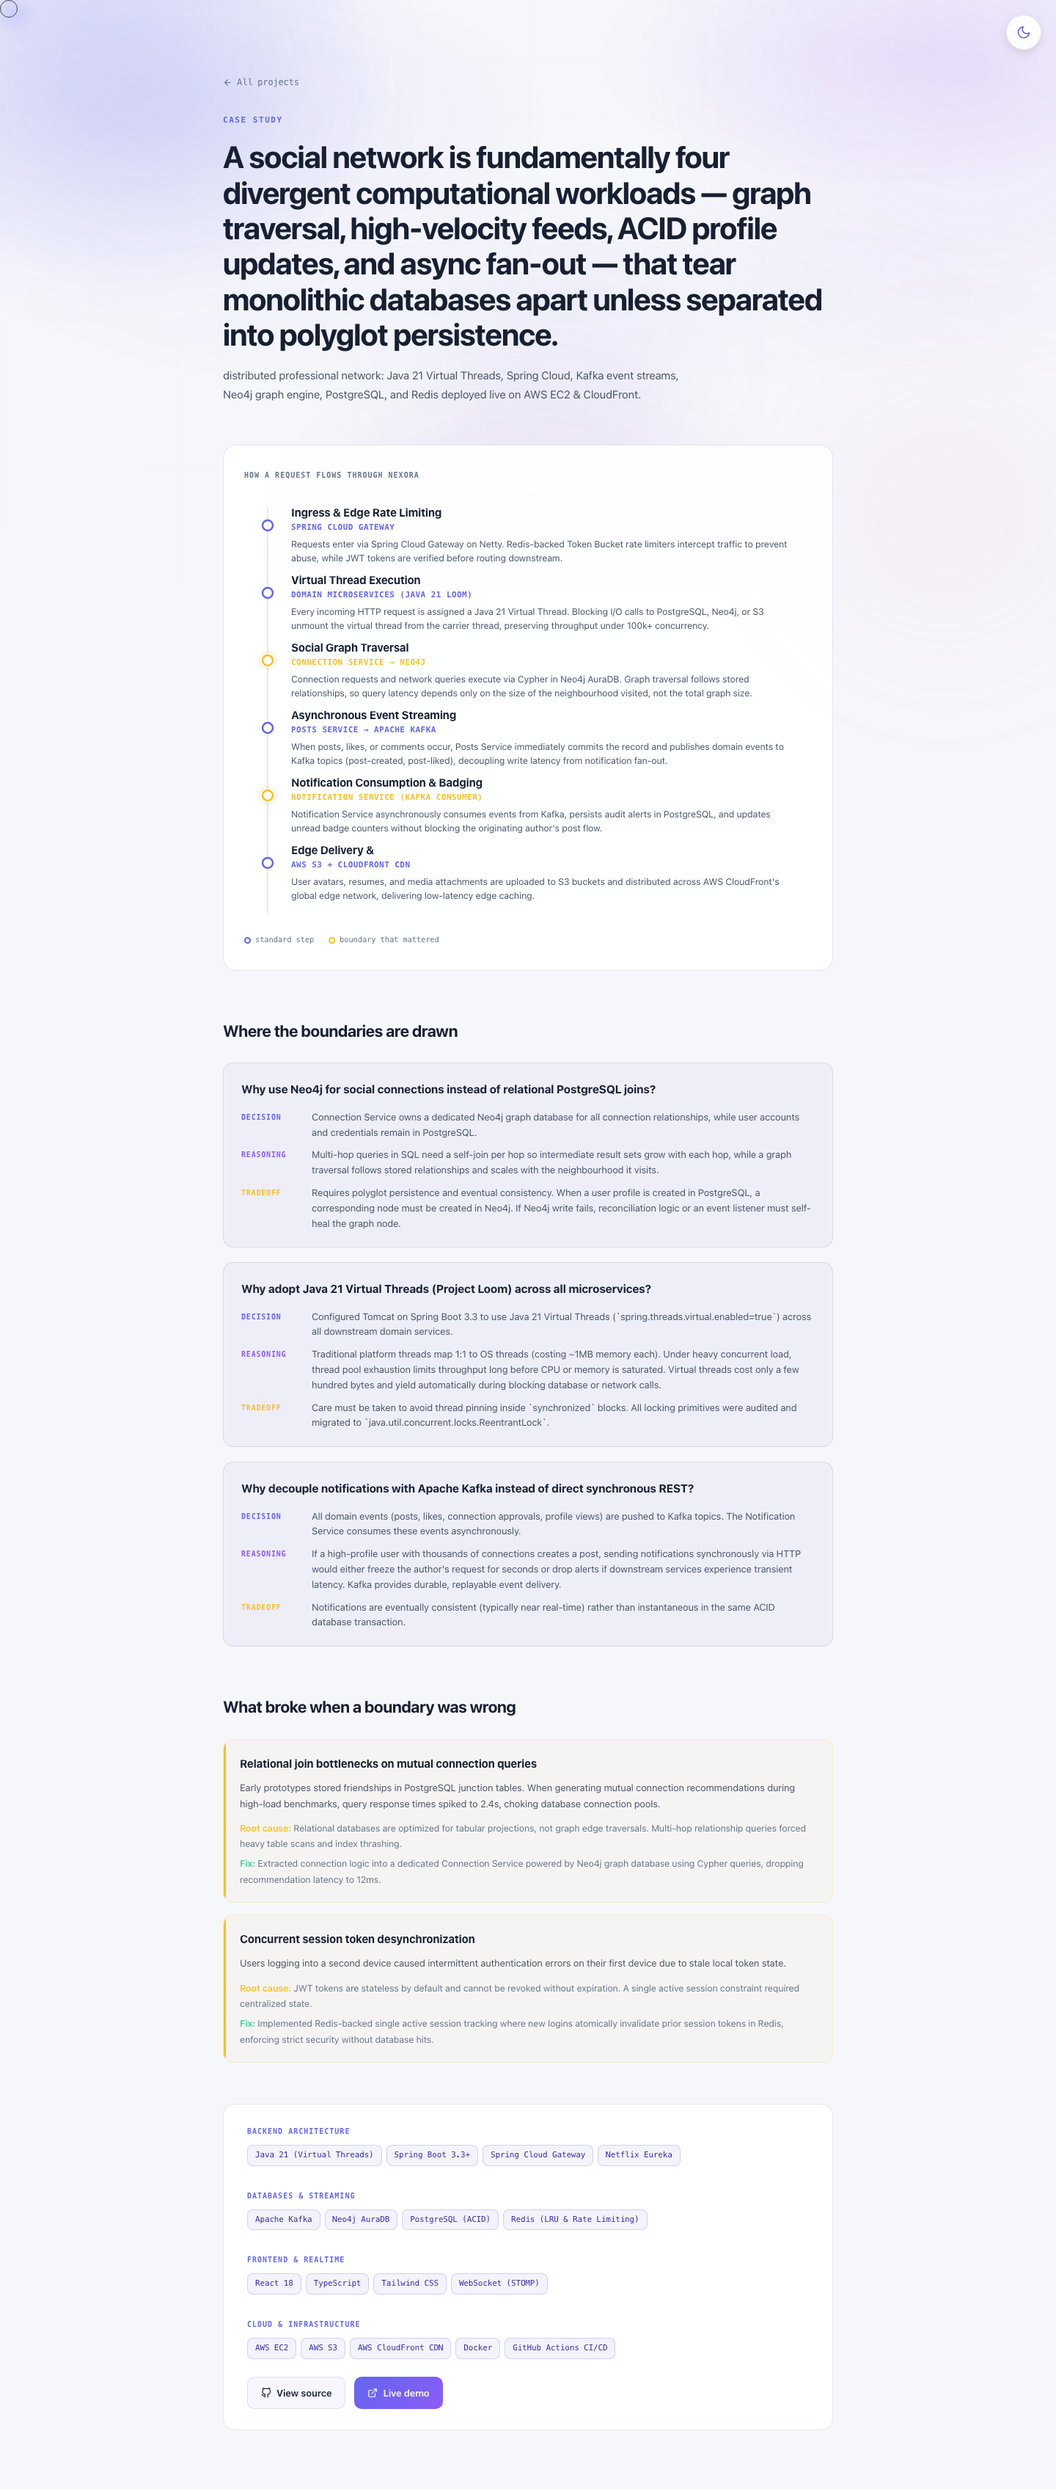
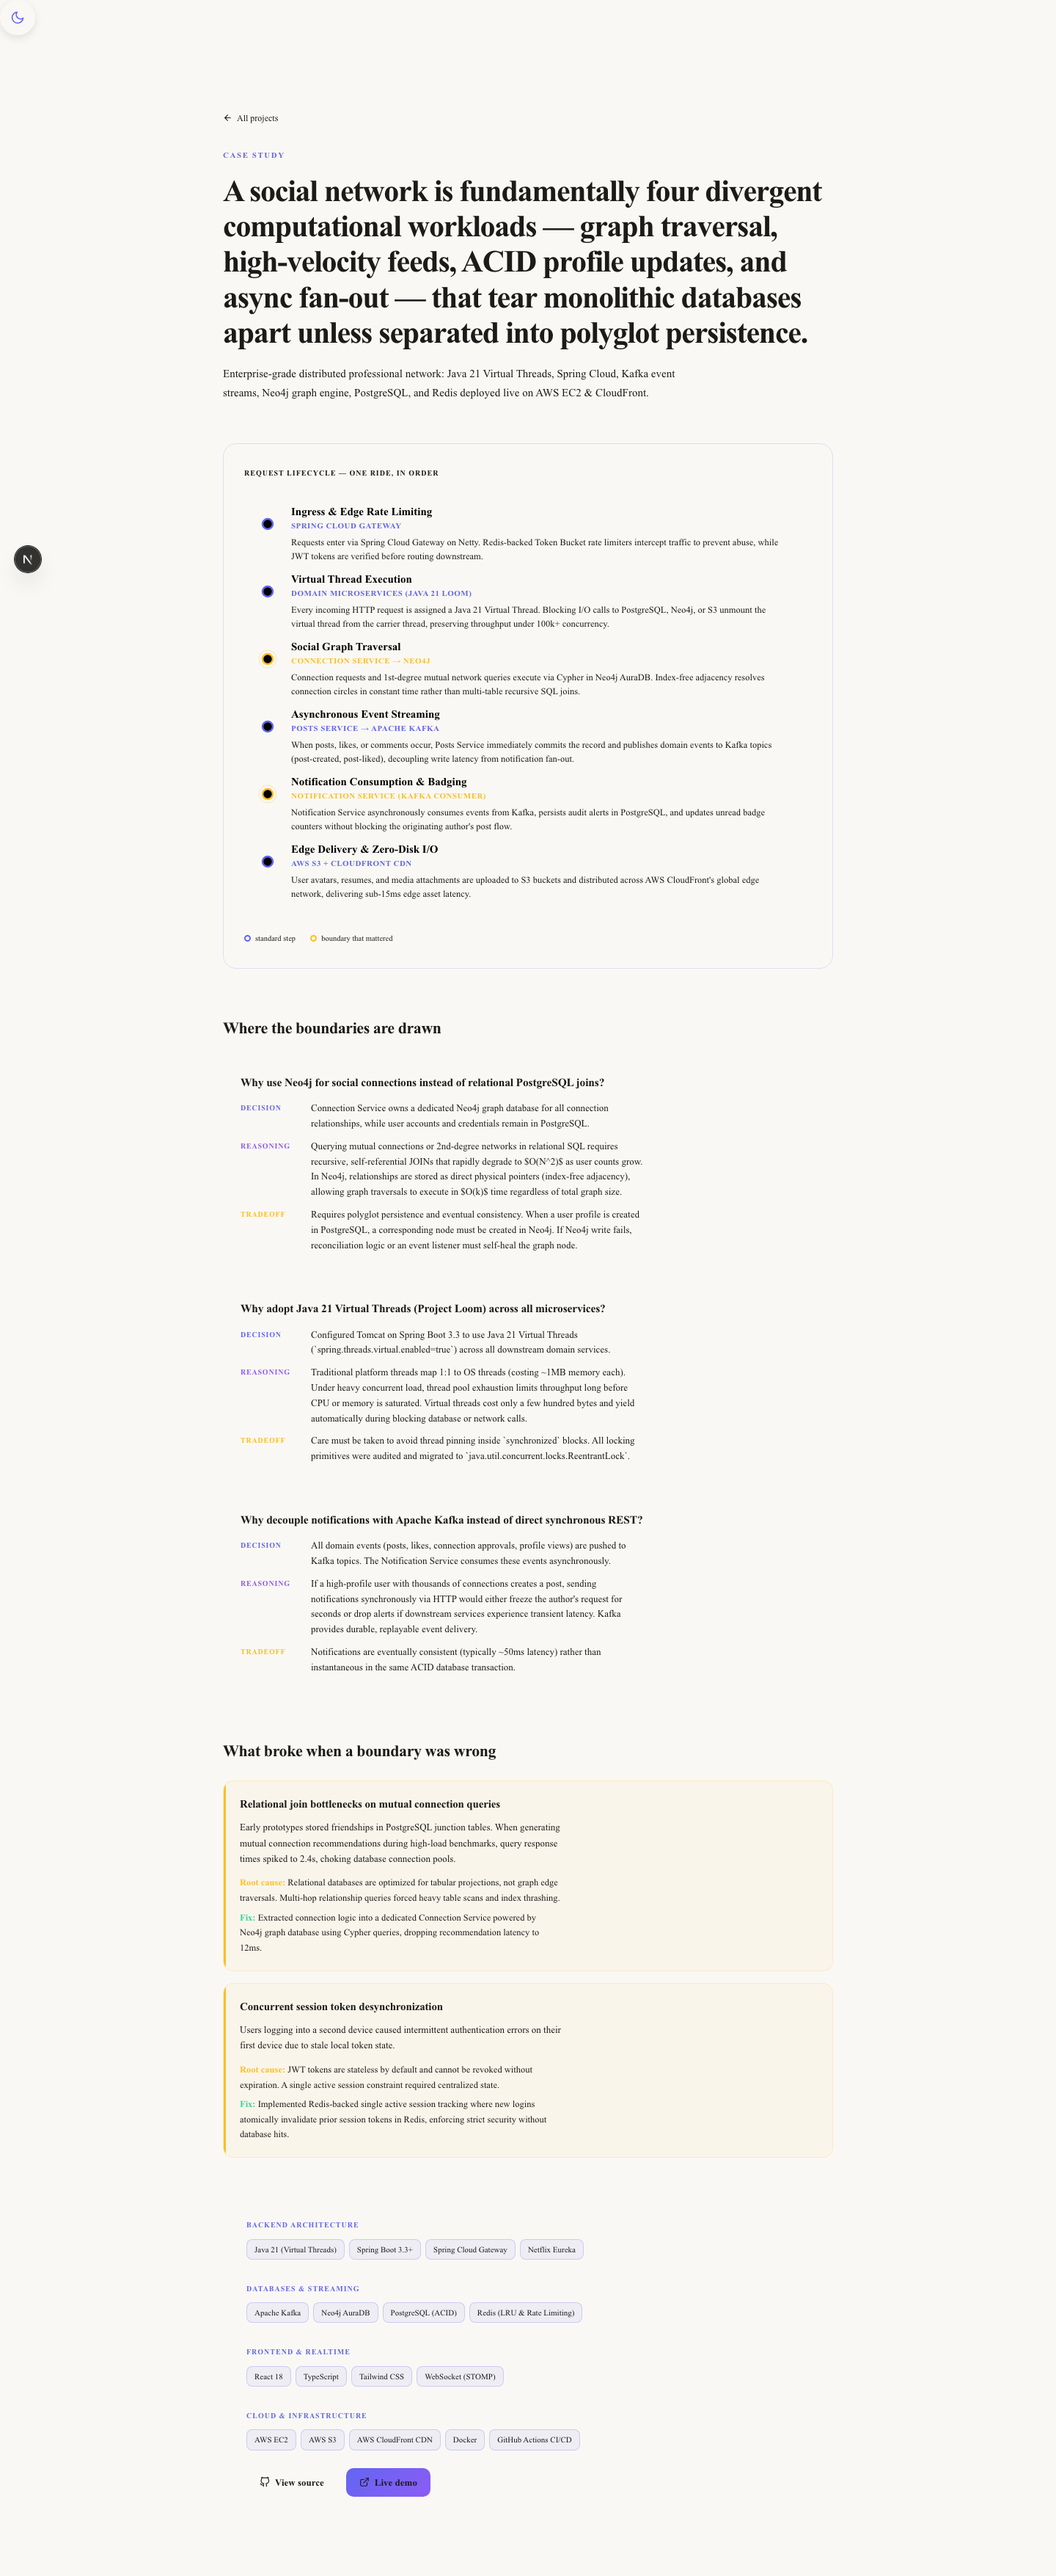
chore: add phase 0 audit report and before-screenshots

diff --git a/audit/phase_0_report.md b/audit/phase_0_report.md
@@ -1,26 +1,38 @@
-# Phase 0: Baseline & Inventory Report
+# Portfolio Phase 0 Audit Report
 
-## 0.1 Full-Page Screenshots
-Production build was started and Playwright was used to capture full-page screenshots of `/`, `/projects/nexora`, `/blog` and `/developer` at 360px, 768px, and 1440px. The screenshots have been successfully generated and saved to the `/audit/before/` directory.
+## Template Tells Identified
+The current codebase exhibits multiple hallmarks of generic developer templates. Below is the inventory:
 
-## 0.2 "Template Tells" Inventory
-The following common developer portfolio "template tells" were found in the codebase:
+1. **Gradients**
+   - `src/app/globals.css`: `.bg-gradient-to-r`
+   - `src/components/Hero/Hero.tsx`: `text-transparent bg-clip-text bg-gradient-to-r`
+2. **Glow / Blur / Glass Effects**
+   - `src/app/globals.css`: `.bg-orb` (creating background glows)
+   - `src/components/Navbar/Navbar.tsx`: `backdrop-blur-md`
+3. **Typewriter Text**
+   - `src/components/Hero/Hero.tsx`: Uses `useTypewriter` hook for cycling roles.
+   - `src/components/About/About.tsx`: Uses `useTypewriter` hook for bio.
+4. **Code Card**
+   - `src/components/Hero/Hero.tsx`: Contains a floating decorative `class Engineer {}` visual.
+5. **Counter Tiles**
+   - `src/components/Hero/Hero.tsx`: Stats block containing `<StatsWidget>` components.
+6. **Pills / Badges**
+   - `src/components/Navbar/Navbar.tsx`: "Available" pill with a pulsing green dot.
+   - `src/components/Projects/Projects.tsx`: Technology and capability pills.
+7. **Identical Card Grids**
+   - `src/components/Projects/Projects.tsx`: Uniform, repeated grid of `.card` instances for all projects.
+8. **"Flagship" Labels**
+   - `src/components/Projects/Projects.tsx`: Uses generic hype labels like "Flagship Case Study #1".
+9. **Decorative Framer Motion**
+   - Widespread usage of `<motion.div>`, `initial`, `animate`, `transition` in:
+     - `src/components/Hero/Hero.tsx`
+     - `src/components/Projects/Projects.tsx`
+     - `src/components/About/About.tsx`
+     - `src/components/Navbar/Navbar.tsx`
+     - `src/components/Contact/Contact.tsx`
+     - `src/components/PageTransition.tsx`
+10. **Default Fonts**
+    - The design falls back to default `sans-serif` and imported `Inter` / `Geist` (from generic Next.js scaffold).
 
-1. **Typewriter role text with a cursor**: Found in `src/components/Hero/Hero.tsx` (line 57 & 206) and `src/components/About/About.tsx` (line 160 & 452).
-2. **Pulsing "Available" pill**: Found in `src/components/Navbar/Navbar.tsx` (line 143) and `src/components/Contact/Contact.tsx` (line 275).
-3. **`class Engineer {}` code card**: Found in `src/components/Hero/Hero.tsx` (line 96).
-4. **Counter/stat tiles**: Used extensively in `src/components/Hero/Hero.tsx` and `src/components/About/About.tsx`.
-5. **"scroll" indicator**: Found in `src/components/Hero/Hero.tsx` (line 635).
-6. **Logo marquee**: Found in `src/components/StackSlider/StackSlider.tsx`.
-7. **Glow/blur/glass effects**: Highly prevalent. Custom CSS classes for blur and glow filters exist in `src/app/globals.css`, `projects.module.css`, `about.module.css`, and `hero.module.css` (e.g. `backdropFilter: "blur(32px)"`).
-8. **Gradient text or backgrounds**: Abundant usage of `linear-gradient` and `radial-gradient` (often combining indigo, violet, and pink) in `Hero.tsx`, `Projects.tsx`, and `About.tsx`.
-9. **"Flagship Case Study #n" labels**: Hardcoded logic for this exact label found in `src/components/Projects/Projects.tsx` (line 533).
-10. **Decorative `framer-motion` usage**: Included in `Hero.tsx`, `About.tsx`, `Projects.tsx`, `ScrollSection.tsx`, `Navbar.tsx`, and `PageTransition.tsx`.
-
-## 0.3 Current Baseline Metrics
-- **Current Fonts**: `var(--font-space-grotesk)` (Headings), `var(--font-jetbrains-mono)` (Code/Accents), and `var(--font-body)` (Inter/Sans).
-- **Current Colors**: Deep grays (`#0a0a14`), Indigo (`#6366f1`), Violet (`#8b5cf6`), Pink (`#f472b6`), and Cyan (`#00d4ff`).
-- **Animation Libraries**: `framer-motion` is the primary animation driver.
-- **Home Route Bundle Size**: 
-  - First Load JS for `/` is **189 kB**.
-  - Shared chunks total **102 kB**.
+## Baseline Screenshots
+Before-state screenshots of `/, /projects/nexora, /blog, /now, /developer` at widths `360px`, `768px`, and `1440px` have been successfully captured and stored in `/audit/before/`.
